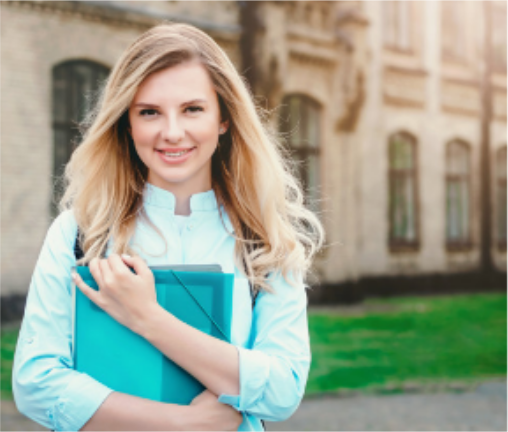
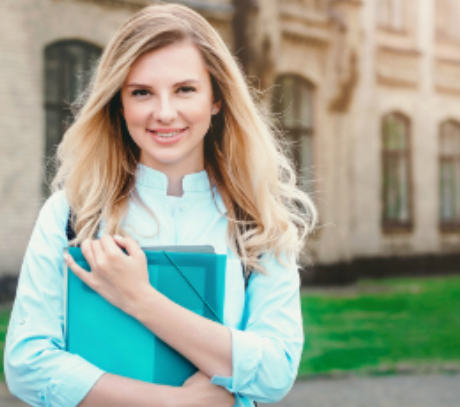
rewrote table to flexbox

diff --git a/lab4/index.html b/lab4/index.html
@@ -7,58 +7,48 @@
 </head>
 <body>
 
-<div id="container">
-
-    <table>
-        <tr>
-            <td rowspan="2" id="info-bucket">
-                <h2 id="additional-logo">
-                    Training is everything
-                </h2>
-                <p>
-                    The paradox of education is precisely this - that as one begins to become conscious one begins to
-                    examine the society in which he is being educated
-                </p>
-            </td>
-            <td>
-                <img src="images/bag.png" alt="Girl with book" class="first-second-row-images"/>
-            </td>
-            <td>
-                <img src="images/girl1.png" alt="Girl with book" class="first-second-row-images"/>
-            </td>
-        </tr>
-        <tr>
-            <td id="middle-bucket">
-                <h1 id="main-logo">EDUCATION IS THE KEY TO SUCCESS</h1>
-            </td>
-            <td>
-                <img src="images/clock.png" alt="Girl with book" class="first-second-row-images"/>
-            </td>
-        </tr>
-        <tr>
-            <td>
-                <img src="images/girl2.png" alt="Girl with book" class="third-row-image"/>
-            </td>
-            <td colspan="2" id="read-more-bucket">
-                <h3 id="more-info-header">
-                    Morbi eros lorem, imperdient
-                </h3>
-                <p id="read-more-text">
-                    Lorem ipsum dolor sit amet, consetetur sadipscing elitr, sed diam nonumy eirmod tempor
-                    invidunt
-                    ut labore et dolore magna aliquyam erat, sed diam voluptua. At vero eos et accusam et justo duo
-                    dolores et
-                    ea
-                    rebum. Stet
-                    clita kasd gubergren.
-                </p>
-                <a href="../index.html">READ MORE</a>
-            </td>
-        </tr>
-    </table>
-
-</div>
-
+<div class="flex-container">
+    <div class="item item-1">1</div>
+    <div class="item item-2 item-active">
+        <h2 id="additional-logo">
+            Training is everything
+        </h2>
+        <p>
+            The paradox of education is precisely this - that as one begins to become conscious one begins to
+            examine the society in which he is being educated
+        </p>
+    </div>
+    <div class="item item-3">
+        <img src="images/bag.png" alt="Girl with book" class="first-second-row-images"/>
+    </div>
+    <div class="item item-4">
+        <img src="images/girl1.png" alt="Girl with book" class="first-second-row-images"/>
+    </div>
+    <div class="item item-5">5</div>
+    <div class="item item-6">
+        <h1 id="main-logo">EDUCATION IS THE KEY TO SUCCESS</h1>
+    </div>
+    <div class="item item-7">
+        <img src="images/clock.png" alt="Girl with book" class="first-second-row-images"/>
+    </div>
+    <div class="item item-8">
+        <img src="images/girl2.png" alt="Girl with book" class="third-row-image"/>
+    </div>
+    <div class="item item-9">
+        <h3 id="more-info-header">
+            Morbi eros lorem, imperdient
+        </h3>
+        <p id="read-more-text">
+            Lorem ipsum dolor sit amet, consetetur sadipscing elitr, sed diam nonumy eirmod tempor
+            invidunt
+            ut labore et dolore magna aliquyam erat, sed diam voluptua. At vero eos et accusam et justo duo
+            dolores et
+            ea
+            rebum. Stet
+            clita kasd gubergren.
+        </p>
+        <a href="../index.html">READ MORE</a>
+    </div>
 </div>
 </body>
 </html>

diff --git a/lab4/css/template.css b/lab4/css/template.css
@@ -1,10 +1,75 @@
-#container {
-    width: 1500px;
-    height: 100px;
+.flex-container {
+    display: flex;
+    position: relative;
+    align-items: flex-end;
+    flex-flow: row wrap;
+    gap: 40px;
+    min-width: 1500px;
+    max-width: 1500px;
     margin: auto;
 }
 
-#info-bucket, #read-more-bucket {
+.item {
+    color: #fff;
+    display: block;
+    width: 460px;
+    height: 400px;
+}
+
+.item-active {
+    order: 1;
+    position: absolute;
+    top: 0;
+    left: 0;
+}
+
+.item-1 {
+
+}
+
+.item-2 {
+    background-color: darkturquoise;
+    font-size: 25px;
+    font-family: Arial, Helvetica, sans-serif;
+    font-weight: 100;
+    color: white;
+    padding-left: 30px;
+    padding-right: 30px;
+    height: 643px;
+    width: 400px;
+    padding-top: 200px;
+}
+
+.item-3 {
+
+}
+
+.item-4 {
+
+}
+
+.item-5 {
+
+}
+
+.item-6 {
+    border: 2px solid darkturquoise;
+    color: darkturquoise;
+    align-content: center;
+}
+
+.item-7 {
+
+}
+
+.item-8 {
+
+}
+
+.item-9 {
+    background-color: #F86942;
+    height: 340px;
+    width: 900px;
     font-size: 25px;
     font-family: Arial, Helvetica, sans-serif;
     font-weight: 100;
@@ -14,15 +79,6 @@
 
 #info-bucket {
     background-color: darkturquoise;
-}
-
-#middle-bucket {
-    border: 2px solid darkturquoise;
-    color: darkturquoise;
-}
-
-#read-more-bucket {
-    background-color: #F86942;
 }
 
 #main-logo, #additional-logo {
@@ -35,6 +91,7 @@
     margin-left: 5%;
     margin-right: 5%;
     padding: 10px;
+    margin-top: 80px;
     text-align: center;
 }
 
@@ -72,8 +129,8 @@ a {
 }
 
 .third-row-image {
-    width: 500px;
-    height: 430px;
+    width: 460px;
+    height: 400px;
 }
 
 
